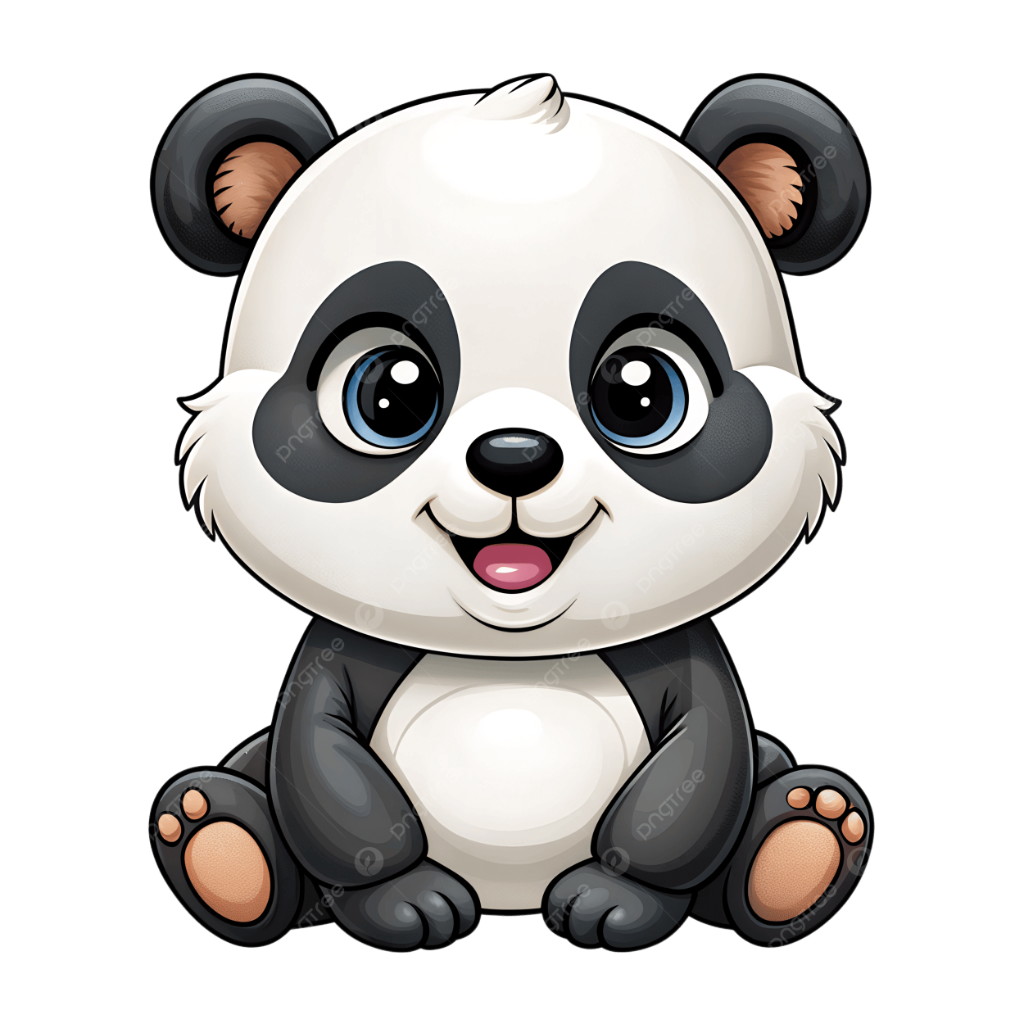
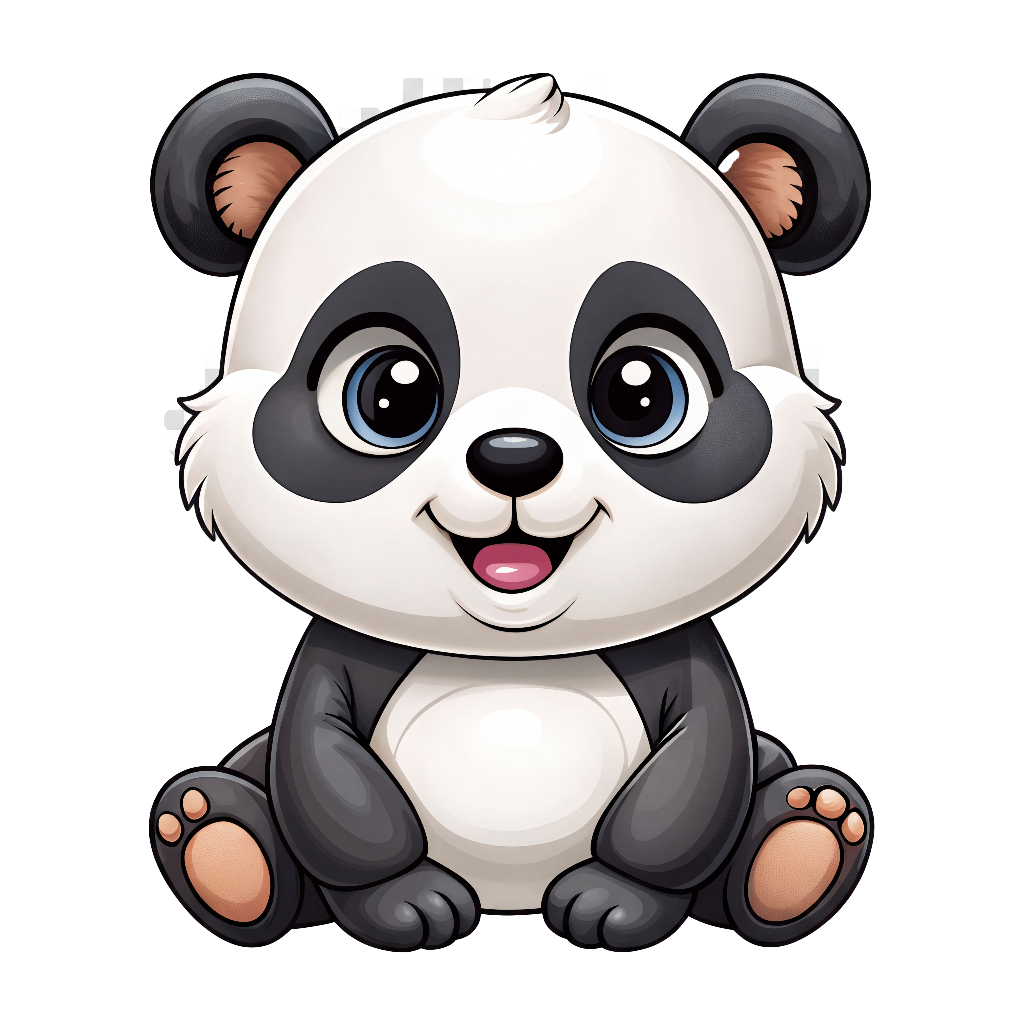
feat: Switch to true transparent PNG image without background or watermark

diff --git a/src/components/PandaReal.jsx b/src/components/PandaReal.jsx
@@ -67,34 +67,12 @@ const PandaReal = () => {
           position: 'relative', 
           width: '280px', 
           height: '280px',
-          filter: 'drop-shadow(0 15px 25px rgba(0,0,0,0.3))',
-          // MASK THE CHECKERBOARD BACKGROUND USING CSS RADIAL GRADIENTS
-          // This creates a custom silhouette of the panda to hide the JPG background
-          WebkitMaskImage: `
-            radial-gradient(ellipse 43% 38% at 50% 36%, black 99%, transparent 100%), /* Head */
-            radial-gradient(circle 14% at 22% 20%, black 99%, transparent 100%), /* Left Ear */
-            radial-gradient(circle 14% at 78% 20%, black 99%, transparent 100%), /* Right Ear */
-            radial-gradient(ellipse 40% 30% at 50% 70%, black 99%, transparent 100%), /* Body */
-            radial-gradient(ellipse 15% 12% at 22% 82%, black 99%, transparent 100%), /* Left Foot */
-            radial-gradient(ellipse 15% 12% at 78% 82%, black 99%, transparent 100%), /* Right Foot */
-            radial-gradient(ellipse 15% 20% at 25% 65%, black 99%, transparent 100%), /* Left Arm */
-            radial-gradient(ellipse 15% 20% at 75% 65%, black 99%, transparent 100%)  /* Right Arm */
-          `,
-          maskImage: `
-            radial-gradient(ellipse 43% 38% at 50% 36%, black 99%, transparent 100%),
-            radial-gradient(circle 14% at 22% 20%, black 99%, transparent 100%),
-            radial-gradient(circle 14% at 78% 20%, black 99%, transparent 100%),
-            radial-gradient(ellipse 40% 30% at 50% 70%, black 99%, transparent 100%),
-            radial-gradient(ellipse 15% 12% at 22% 82%, black 99%, transparent 100%),
-            radial-gradient(ellipse 15% 12% at 78% 82%, black 99%, transparent 100%),
-            radial-gradient(ellipse 15% 20% at 25% 65%, black 99%, transparent 100%),
-            radial-gradient(ellipse 15% 20% at 75% 65%, black 99%, transparent 100%)
-          `
+          filter: 'drop-shadow(0 15px 25px rgba(0,0,0,0.3))'
         }}
       >
         {/* Base Image */}
         <img 
-          src="/panda_real.jpg" 
+          src="/panda_real.png" 
           alt="Cute Panda" 
           style={{ width: '100%', height: '100%', position: 'absolute', top: 0, left: 0, objectFit: 'contain' }} 
         />
